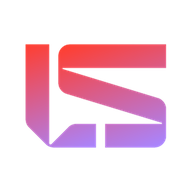
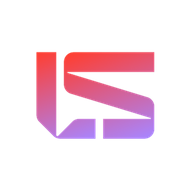
ALK-1309 Подобрал фоновые режимы для pwa иконок 1.153.7

Changed region(s): [[0.125, 0.2188, 0.875, 0.7812]]

diff --git a/public/index.html b/public/index.html
@@ -15,10 +15,13 @@
     <link rel="preconnect" href="https://fonts.gstatic.com" crossorigin>
     <link href="https://fonts.googleapis.com/css2?family=Roboto&display=swap" rel="stylesheet">
     <link rel="manifest" href="%PUBLIC_URL%/site.webmanifest" />
-    <!-- Добавленные метатеги для iOS -->
+    <!-- iOS / Add to Home Screen: opaque apple-touch-icon (прозрачный PNG на iOS даёт однотонный значок) -->
     <meta name="apple-mobile-web-app-capable" content="yes">
-    <meta name="apple-mobile-web-app-status-bar-style" content="black-translucent">
-    <link rel="apple-touch-icon" href="/apple-touch-icon.png">
+    <meta name="mobile-web-app-capable" content="yes">
+    <meta name="apple-mobile-web-app-status-bar-style" content="default">
+    <meta name="apple-mobile-web-app-title" content="Алкозамок">
+    <link rel="apple-touch-icon" sizes="180x180" href="%PUBLIC_URL%/apple-touch-icon.png">
+    <link rel="apple-touch-icon" href="%PUBLIC_URL%/apple-touch-icon.png">
     <meta http-equiv="Cache-Control" content="no-cache, no-store, must-revalidate">
     <title>Информационная система «Алкозамок-М СМАРТ»</title>
   </head>

diff --git a/src/widgets/nav_bar/config/const.tsx b/src/widgets/nav_bar/config/const.tsx
@@ -18,7 +18,7 @@ import TimeToLeaveOutlinedIcon from '@mui/icons-material/TimeToLeaveOutlined';
 import { RoutePaths } from '@shared/config/routePathsEnum';
 import { ExtractTypeFromArray } from '@shared/types/utility';
 
-export const frontendVersion = '1.153.6';
+export const frontendVersion = '1.153.7';
 
 export const NAV_LINKS = [
   { path: RoutePaths.events, nameKey: 'nav.events', icon: <InsertInvitationOutlinedIcon /> },
